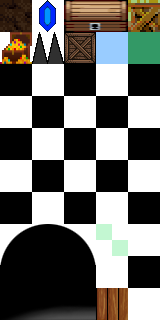
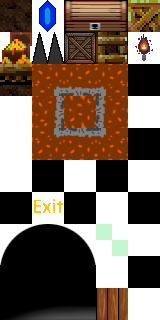
Update map/tiles

Changed region(s): [[0.0, 0.0938, 1.0, 0.5], [0.1875, 0.625, 0.4062, 0.6875]]

diff --git a/tiles_map/cave_set.tsx b/tiles_map/cave_set.tsx
@@ -1,0 +1,4 @@
+<?xml version="1.0" encoding="UTF-8"?>
+<tileset name="cave_set" tilewidth="32" tileheight="32" tilecount="70" columns="10">
+ <image source="../img/cave_set.png" width="320" height="224"/>
+</tileset>

diff --git a/app/SceneData.py b/app/SceneData.py
@@ -7,9 +7,9 @@ import pygame
 
 class SceneData(SceneDataTMX):
     def __init__(self):
-        super().__init__("LocalCavernMap", "StartPointWorld", (SCREEN_WIDTH,SCREEN_HEIGHT))
+        super().__init__("CavernMap", "StartPointWorld", (SCREEN_WIDTH,SCREEN_HEIGHT))
 
-        self.player = Player(50, 50, self)
+        self.player = Player(self.spawmPointPlayerx, self.spawmPointPlayery, self)
 
         self.traps = []
         self.bulletGroup = pygame.sprite.Group()
